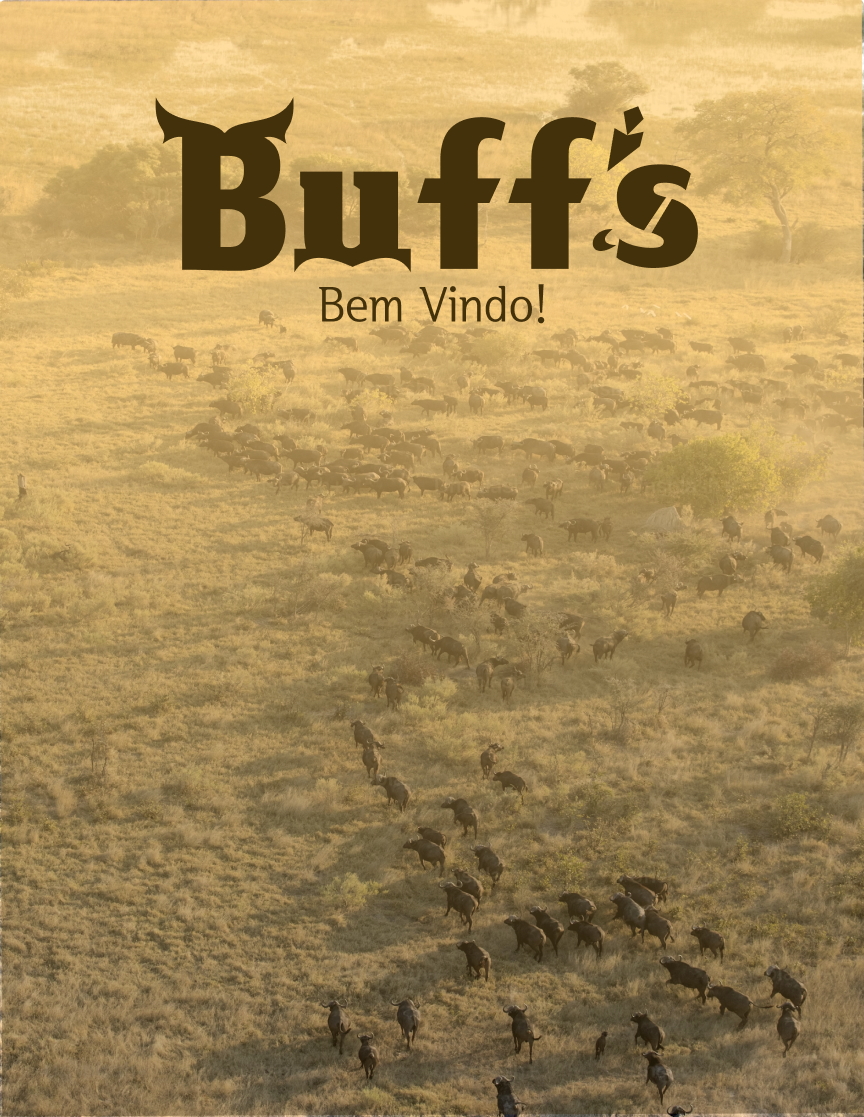
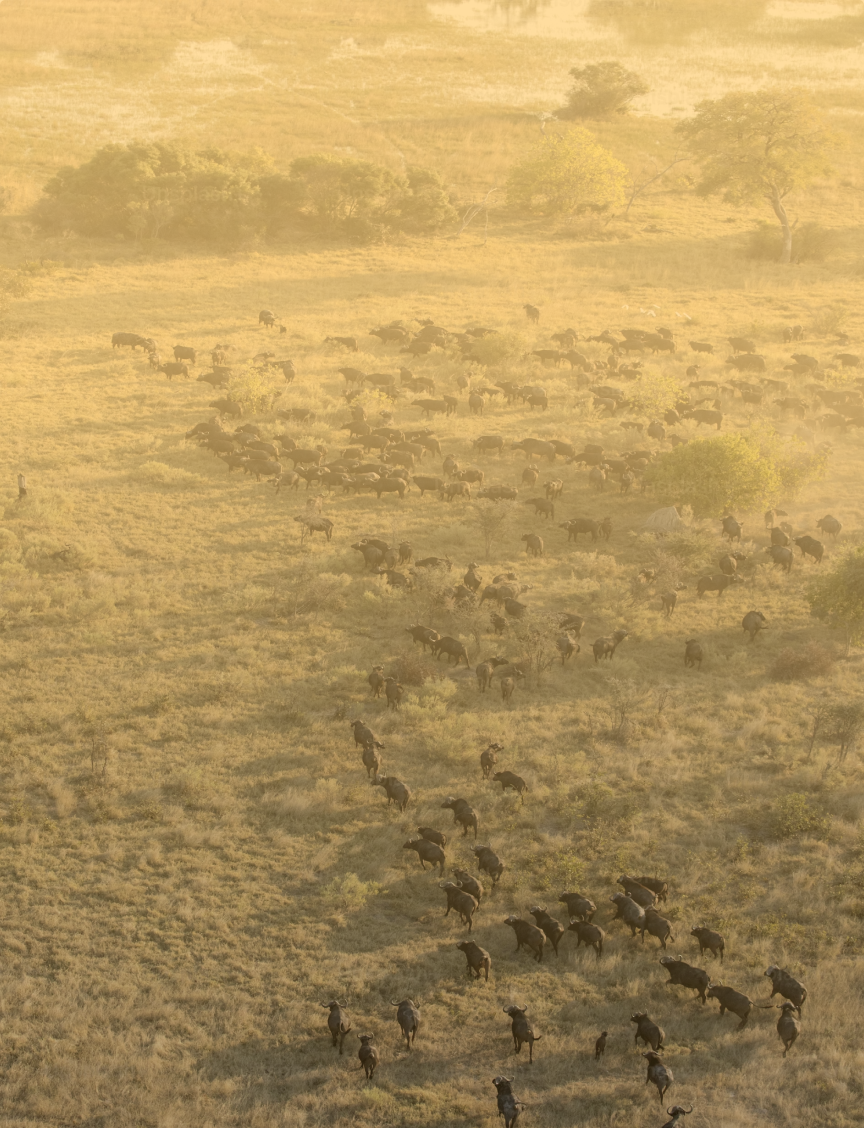
.

diff --git a/public/css/style.css b/public/css/style.css
@@ -1,32 +1,74 @@
-body{
+@import url('https://fonts.googleapis.com/css2?family=Inter:wght@100..900&display=swap');
+
+*{
     margin: 0;
     padding: 0;
 }
 
-.wrapper{
+.section1 {
     display: flex;
-    flex-flow: start wrap;
+    flex-direction: row;
+    width: 100%;
+    height: 100vh;
+}
+.esquerdo, .direito {
+    flex: 1;
 }
 
-.esquerda{
-    width: 50%;
-}
 
-.direita{
-    width: 50%;
+.box1, .box2 {
+    width: 100%;
+    height: 100%;
+    position: relative;
+}
+.box1 {
+    width: 50vw;
+    height: 100vh;
+    background-color: green;
+    background-image: url('/imgs/fundo-login.png');
+    background-size: cover; /* Faz com que a imagem cubra todo o espaço */
+    background-repeat: no-repeat; /* Impede a repetição da imagem */
+    background-position: center; /* Centraliza a imagem no contêiner */
+    display: flex;
     justify-content: center;
-}
-
-.login{
-    background-color: chocolate;
+    
 
 }
-
-.button{
-    background-color: chocolate;
+.box1>img{
+    margin-top: 10vh;
+    width: 500px;
+    height: 211.30px;
+}
+.box2 {
+    background-color: #FFF5F5;
+    display: flex;
+    justify-content: center;
+    
+    
 }
 
-.cadastro{
-    background-color: chocolate;
-    border: 0.5px solid gray;
+/* Media Query para telas menores */
+@media (max-width: 768px) {
+    .esquerdo {
+        display: none;
+    }
+    .direito {
+        flex: 1 0 100%; /* Ocupa todo o espaço disponível */
+    }
+    .box2{
+        margin-left:20px ;
+        margin-right: 20px;
+    }
+    .box2>.ajusta{
+        margin-right: 20px;
+    }
+    
+}
+
+@media(max-width:1018px){
+    .box1>img{
+        margin-top: 10vh;
+        width: 400px;
+        height: 169.04px;
+    }
 }
